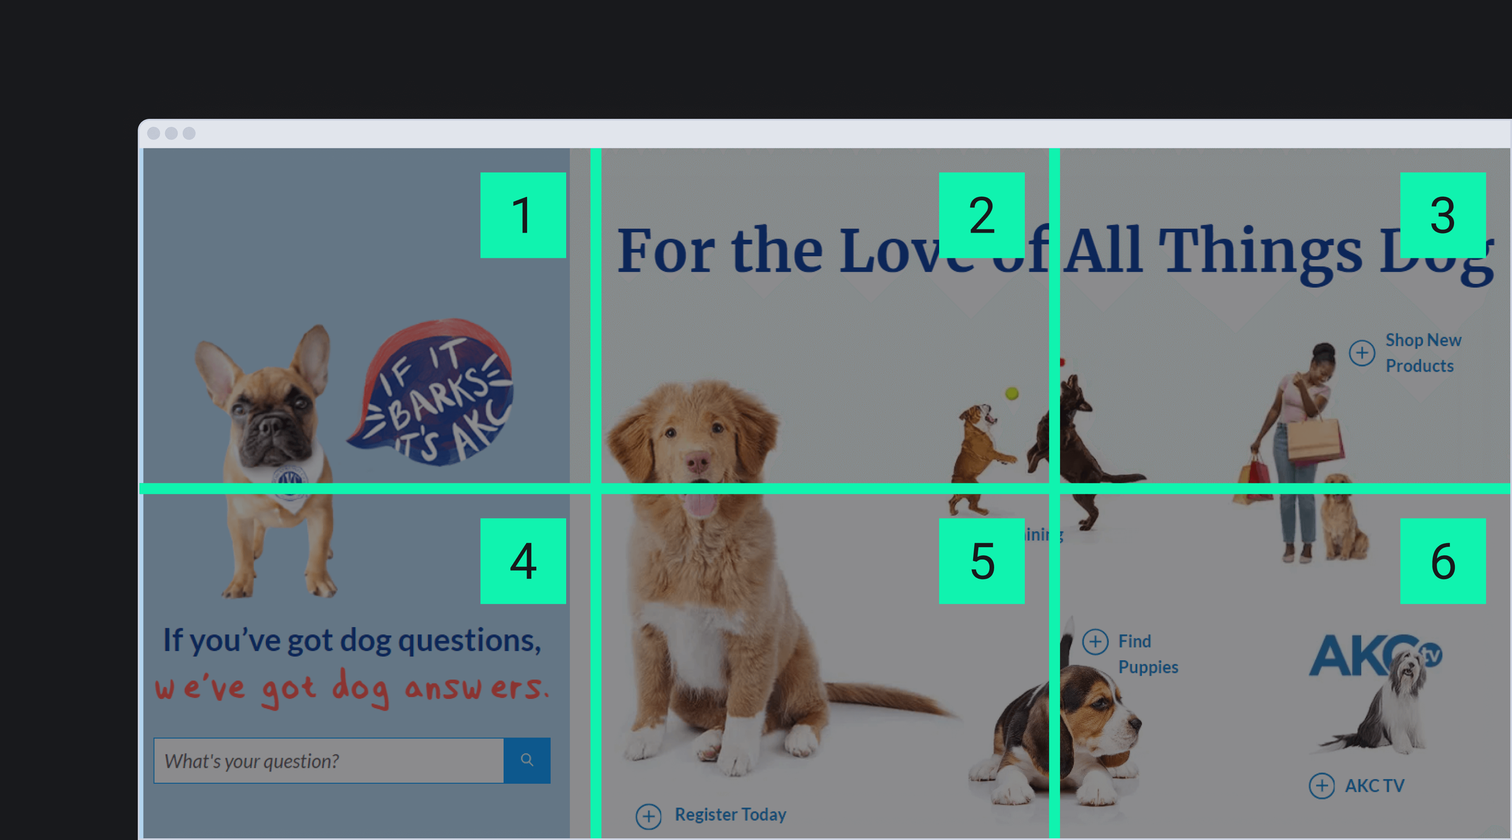
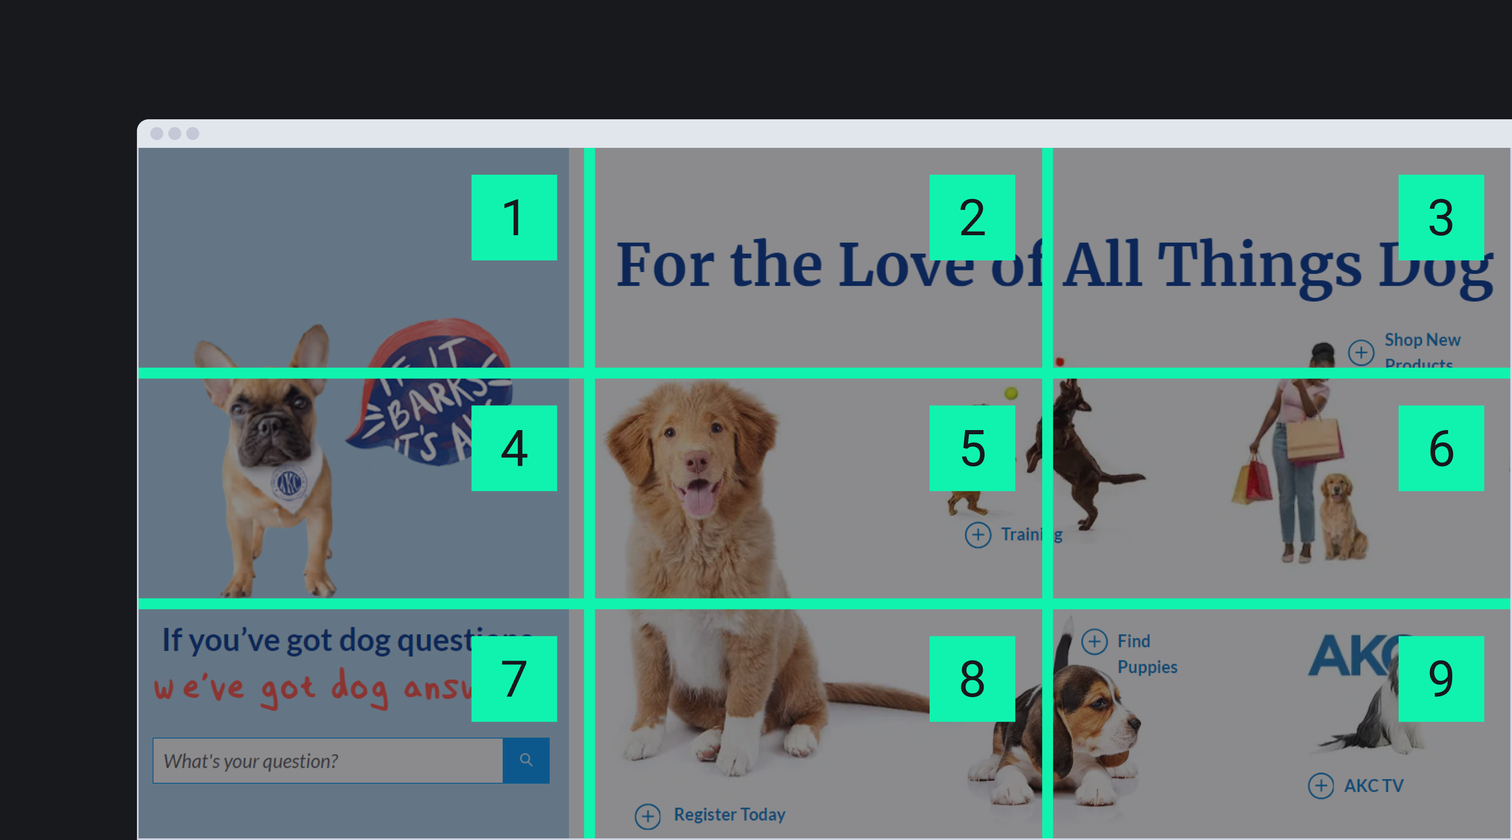
Доводит до ума старое

diff --git a/a11y/speech-recognition/index.md b/a11y/speech-recognition/index.md
@@ -84,23 +84,27 @@ _Технологии распознавания речи (speech recognition te
 - [Команды для голосового контроля на macOS](https://support.apple.com/en-gb/guide/mac-help/mh40719/mac).
 - [Список команд для голосового контроля в iOS](https://support.apple.com/en-gb/guide/iphone/iph2c21a3c88/ios).
 - [Команды голосового доступа в Android](https://support.google.com/accessibility/android/answer/6151854?sjid=3130814211912173617-EU).
-- [Шпаргалка с командами в Dragon](https://www.nuance.com/asset/en_us/collateral/dragon/command-cheat-sheet/ct-dragon-professional-individual-en-us.pdf) (PDF).
+- [Шпаргалка с командами в Dragon](https://www.nuance.com/products/help/dragon/dragon-for-pc/enx/professionalgroup/main/Content/Web/web_basics.htm).
 
 Навигация голосом по сайтам похожа на навигацию с клавиатуры или с помощью касаний. К примеру, страницы прокручивают командами «Стрелка вверх», «Стрелка вниз» или «Скролить в конец». Для перехода от одного интерактивного элемента к другому говорят «Нажать <kbd>Tab</kbd>», для возврата к предыдущему — «Нажать <kbd>Shift Tab</kbd>». В мобильных версиях сайтов для перемещения между элемантами используют команды «Свайпнуть вперёд» и «Свайпнуть назад». Чтобы нажать на кнопку или ссылку, надо прочитать название элемента и назвать команду «Нажать», «Перейти» или «Тап».
 
-Также можно называть элементы не по имени, а по порядковому номеру на странице. Если в меню не так много пунктов, можно сказать «Перейти два» и открыть вторую ссылку из четырёх.
+Программы распознавания речи могут имитировать даже поведение мышки. Чтобы управлять таким образом страницей, используют команды «Переместить мышку вниз», «Переместить мышку вверх» и «Стоп». Голосом регулируют и скорость перемещения курсора мыши. Звучит удобно, но пользователи распознавания речи чаще используют имитацию поведения клавиатуры. Управление курсором с помощью голоса занимает больше времени и требует точности.
 
-Другая важная команда — «Показать сетку». _Сетка (grid)_ визуально делит интерфейс сайта на несколько пронумерованных ячеек. На картинке показано, как она примерно выглядит. Страница разделена на шесть ячеек с помощью вертикальных и горизонтальных линий. В углу каждой ячейки подписан её номер: 1, 2, 3, 4, 5 и 6.
+Также можно называть элементы не по имени, а по порядковому номеру на странице. Если в меню не так много пунктов, достаточно сказать «Перейти два», и так открыть вторую ссылку из четырёх.
+
+Другая важная команда — «Показать сетку». _Сетка (grid)_ визуально делит интерфейс сайта на несколько пронумерованных ячеек. На картинке показано, как она примерно выглядит. Страница разделена на девять ячеек с помощью вертикальных и горизонтальных линий. В углу каждой ячейки подписан её номер: 1, 2, 3, 4, 5, 6, 7, 8 и 9.
 
 ![Сетка на сайте Американского клуба собаководства. Описание перед примером.](images/grid.png)
 
-Пользователи голосового управления включают сетки, когда на странице есть кнопки с графикой или ссылки с одним и тем же названием. Предположим, на странице три кнопки с иконкой денежной купюры, шестерёнкой и корзиной. Пользователь хочет перейти в настройки, но команда «Нажать настройки» не работает. Чтобы решить проблему, сначала он использует команду «Показать сетку», потом назовёт номер ячейки с кнопкой и команду «Нажать».
+Сетки включают, когда на сайте есть кнопки с графикой или несколько одинаковых ссылок. Предположим, на странице три кнопки с иконкой денежной купюры, шестерёнкой и корзиной. Пользователь хочет перейти в настройки, но команда «Нажать настройки» не работает. Чтобы решить проблему, он использует команду «Показать сетку», назовёт номер ячейки с нужной кнопкой и команду «Нажать».
 
-Если сложно всё это представить, посмотрите [видео про навигацию по странице голосом](https://www.youtube.com/watch?v=yGOP2fOp7TA).
+Во многих программах сетка включается автоматически, если у разных ссылок одно и то же название. В этом случае элементы с повторяющимся текстом визуально пронумеруются. Пользователю останется только сказать номер нужной ссылки и команду «Перейти».
+
+Если сложно всё это представить, посмотрите [видео про навигацию голосом по сайту](https://www.youtube.com/watch?v=yGOP2fOp7TA).
 
 ## Как сделать доступно
 
-Доступность графических интерфейсов сайтов и приложений может как упростить, так и усложнить жизнь пользователям голосового управления. Есть даже отдельные _пользовательские голосовые интерфейсы_ (voice-user interface, коротко VUI). Ими управляют только голосом.
+Доступность графических интерфейсов сайтов и приложений может как упростить, так и усложнить жизнь пользователям голосового управления. Есть даже отдельные _пользовательские голосовые интерфейсы_ (voice-user interface, коротко VUI). Ими управляют **только** голосом.
 
 Разберём только основные советы, как сделать обычный интерфейс сайта более доступным для голосового управления.
 
@@ -126,7 +130,13 @@ _Технологии распознавания речи (speech recognition te
 </button>
 ```
 
-**Видимое имя**. Имена — это то, как называются ссылки, кнопки и другие интерактивные элементы. Они могут быть видимыми всем или только скринридерам. [`aria-label`](/a11y/aria-label/) и визуально скрытый CSS-стилями текст — два распространённых способа добавить невидимое имя.
+<aside>
+
+🔮 Часто кнопки выглядят как ссылки, а ссылки — как кнопки. Эта визуальная неразбериха влияет на голосовое управление. Пользователь может принять один элемент за другой и использовать неправильную команду. К примеру, «Перейти» вместо «Нажать».
+
+</aside>
+
+**Видимое имя**. Имена — это то, как называются ссылки, кнопки и другие интерактивные элементы. Они могут быть видимыми всем или только скринридерам. Атрибут [`aria-label`](/a11y/aria-label/) и визуально скрытый CSS-стилями текст — два распространённых способа добавить невидимое имя.
 
 Казалось бы, всё хорошо, элемент как-то называется, в чём же проблема? Пользователи голосового управления **смотрят на интерфейс**, а не слушают его. Когда у элемента нет видимого имени, с ним нельзя взаимодействовать голосовыми командами. Из-за этого приходится открывать сетку, а это занимает больше времени. Также не все люди знают, что такая функция вообще есть в программах распознавания речи.
 
@@ -134,16 +144,13 @@ _Технологии распознавания речи (speech recognition te
 
 ```html
 <!-- Так плохо 😩 -->
-<button aria-label="Получить подарок">
-  🎁
-</button>
+<input type="text" aria-label="Кличка собаки">
 ```
 
 ```html
 <!-- Так хорошо ❤ -->
-<button>
-  Получить подарок
-</button>
+<label for="dog-name">Кличка собаки</label>
+<input type="text" id="dog-name">
 ```
 
 Что делать, если никак не заменить картинки и иконки на текст? В этом случае придумайте простое и очевидное имя. Мало кто угадает, что ссылка с иконкой шестерёнки называется «Настройки личного кабинета нашего дорогого пользователя». У текста «Настройки» больше шансов, что его угадают.
@@ -166,7 +173,9 @@ _Технологии распознавания речи (speech recognition te
 </a>
 ```
 
-**Одно имя**. Вы могли встречать кнопки и ссылки с видимым именем и `aria-label` одновременно.
+Как можно догадаться, это всё равно не поможет полю формы найтись голосом.
+
+**Одно имя**. На сайтах часто встречаются кнопки, поля и другие интерактивные элементы с видимым именем и `aria-label` одновременно.
 
 ```html
 <!-- Не повторять в домашних условиях -->
@@ -175,7 +184,7 @@ _Технологии распознавания речи (speech recognition te
 </button>
 ```
 
-Технически, у кнопки есть видимое имя «Отменить». На самом деле оно «Удалить», так как `aria-label` перезаписывает видимое имя. Пользователь голосового управления не отменит действие командой «Нажать отменить, потому что для браузера и программы распознавания речи на странице нет такого элемента.
+Визуально кнопка называется «Отменить». Для вспомогательных технологий оно станет «Удалить», так как `aria-label` перезаписывает видимое имя. Пользователь голосового управления не отменит действие командой «Нажать отменить, потому что для браузера и программы распознавания речи на странице нет такого элемента.
 
 Проблему с перезаписыванием имени легко решить — просто не используйте `aria-label` для элемента, у которого уже есть видимое имя.
 
@@ -188,7 +197,7 @@ _Технологии распознавания речи (speech recognition te
 
 **Уникальное имя**. Все хоть раз в жизни встречали легендарные ссылки «читать дальше» и «тут». Бывает, что на одной странице их несколько. Когда вы видите интерфейс, то полагаетесь на контекст. Например, ссылка «тут» после предложения «багеты на заказ» ведёт на страницу об условиях и ценах на багеты.
 
-Контекст не поможет пользователям голосового управления, когда на странице одни «тут». Не всегда так просто посчитать количество ссылок, чтобы назвать номер нужной. Показ сетки тоже отнимает время.
+Контекст не поможет пользователям голосового управления, когда на странице одни «тут». Показ сетки, даже автоматический, тоже отнимает время.
 
 Самый лучший выход из ситуации с неуникальными ссылками — называть их по-разному. Это не только упростит голосовое управление, но порадует пользователей скринридеров и поисковых роботов.
 
@@ -207,7 +216,9 @@ _Технологии распознавания речи (speech recognition te
 </p>
 ```
 
-**Дизайн**. Не будем вдаваться в дизайнерские подробности. Просто напомним, что шрифт должен быть достаточно большим, интерактивные элементы — крупными, уровень контрастности — достаточным. В общем, интерфейс сайта и его содержимое должно быть видно.
+**Всё важное — показать**. Так как голосовое управление часто используют люди, которые видят интерфейс, важное содержимое должно быть легко видно. К примеру, немодальные окна с ловушкой фокуса могут перекрыть нужные пользователям кнопки и замедлить навигацию по странице. Большое плавающее меню также скрывает под собой часть содержимого. Тултип вряд ли найдут все категории пользователей.
+
+**Дизайн**. Не будем вдаваться в ещё больше дизайнерских подробностей. Просто напомним, что шрифт должен быть достаточно большим, интерактивные элементы — крупными, уровень контрастности — достаточным. В общем, интерфейс сайта и его содержимое должно быть видно.
 
 ## Тестирование
 
